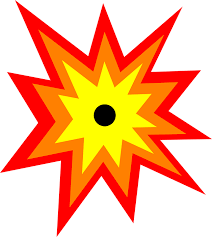
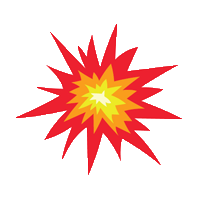
New sprites implemented, removed redundant code

diff --git a/src/Ship.java b/src/Ship.java
@@ -52,10 +52,10 @@ public abstract class Ship {
 		}
 		if(isDestroyed()) {									// If the ship is destroyed
 			explosion.setLocation(getSprite().getLocation());
+			getGame().remove(getSprite());		// Remove the ship sprite
 			game.add(explosion);
 			setDestroyedCounter(getDestroyedCounter() + 1);		// Increment the destroyed counter
 			if(getDestroyedCounter() == 50) {		// When the counter hits 50
-				getGame().remove(getSprite());		// Remove the ship sprite
 				getGame().remove(explosion);
 				explosion.setVisible(false);
 			}

diff --git a/src/Wave.java b/src/Wave.java
@@ -118,7 +118,7 @@ public class Wave {
 		switch(enemyToSpawn) {	// This mods the enemyToSpawn variable by 2 so we get either a 0 or 1
 			case 0:					// Initiate the wave
 				size = 20;
-				delay = 5;
+				delay = 10;
 				break;
 			default:				// This means that if enemyToSpawn is anything other than 0, this will trigger
 				switch(enemyToSpawn%2) {	// Mod enemyToSpawn by 2 to turn it into a 0 or 1

diff --git a/src/PlayerShip.java b/src/PlayerShip.java
@@ -16,7 +16,7 @@ public class PlayerShip extends Ship {
 		setCooldown(0);
 		setMaxCooldown(10);
 		setCanShoot(false);
-		setSprite(new GImage("auto.png", 0, 0));
+		setSprite(new GImage("sprites/playermodel.png", 0, 0));
 		setBulletColor(Color.BLUE);
 		setSize(50, 50);
 		setDestroyed(false);
